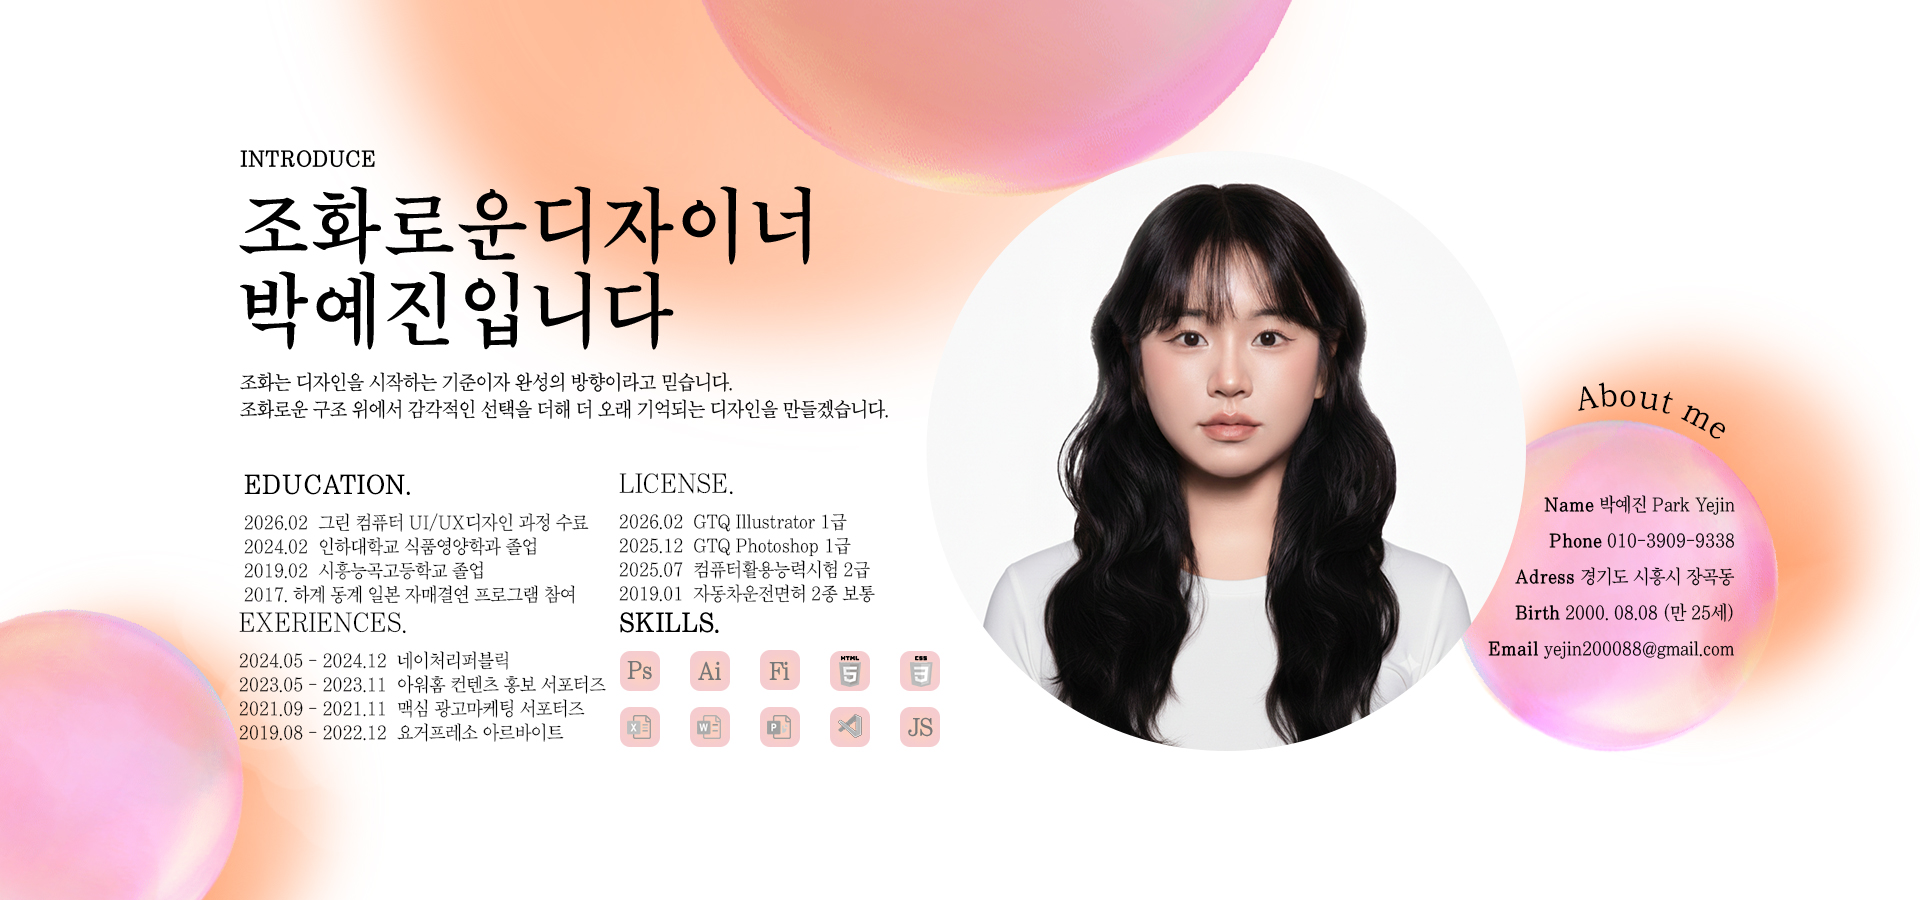
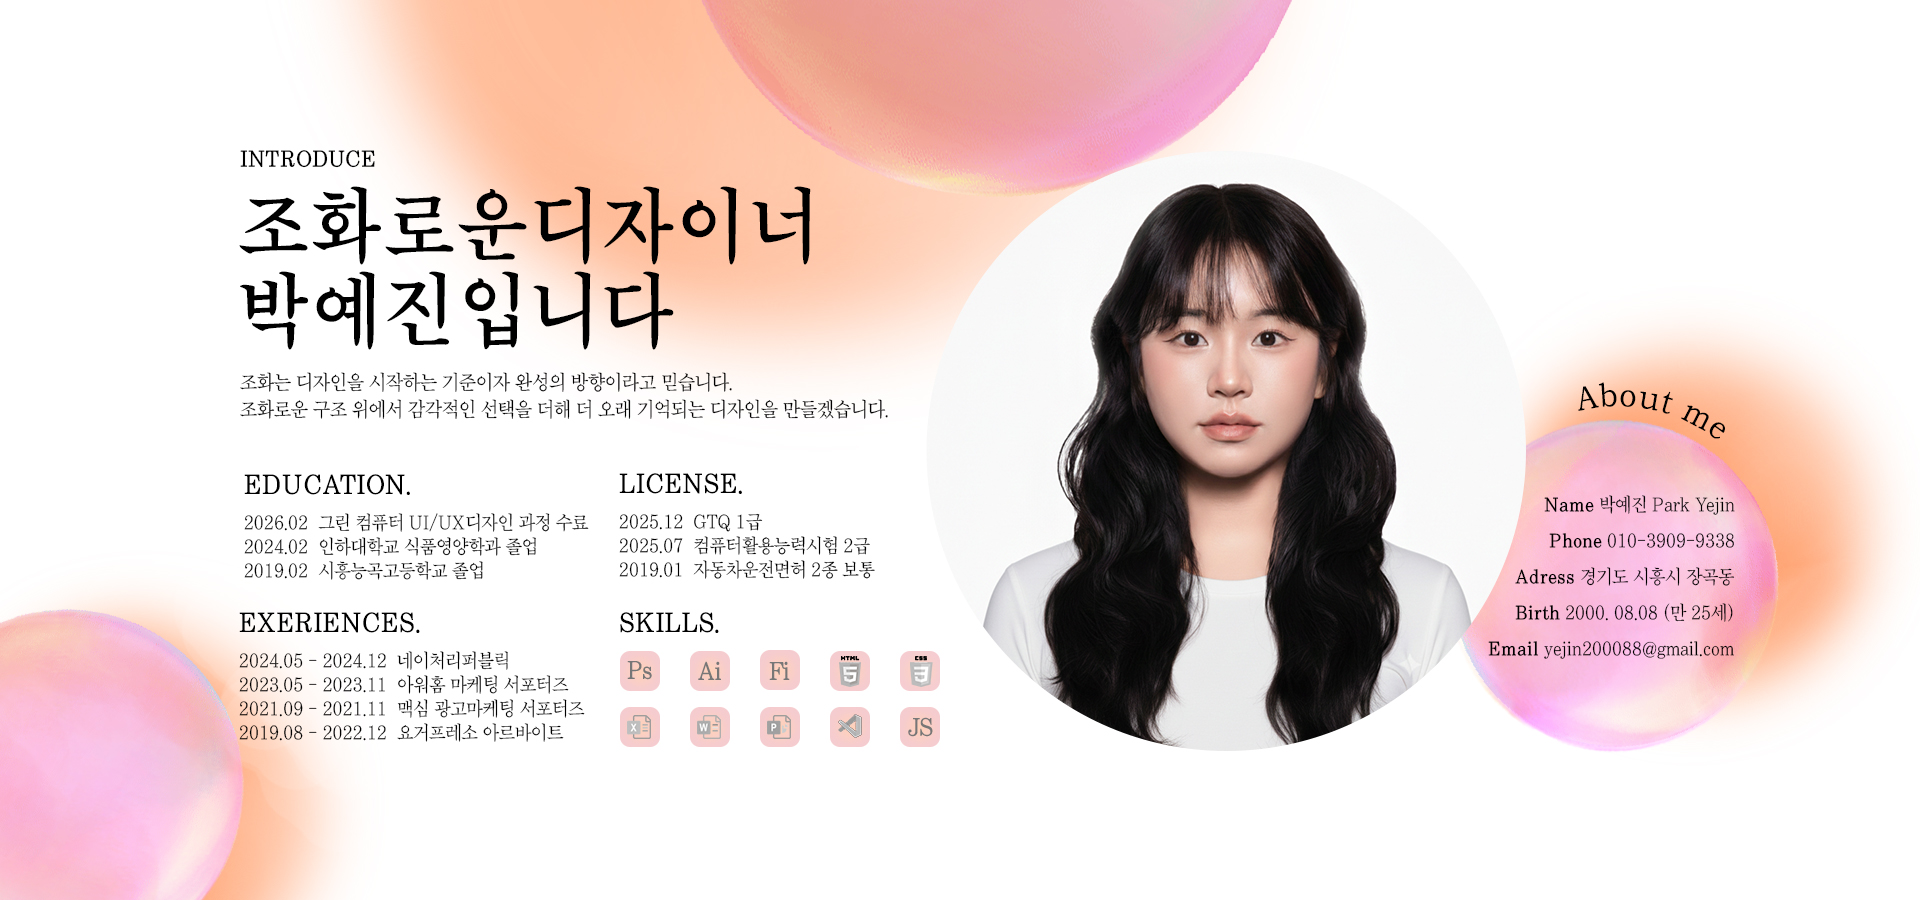
Add files via upload

diff --git a/index.html b/index.html
@@ -47,7 +47,7 @@
 </li>
         
         <li class="carousel__slide" style="background-image: url('image/portfolio2.jpg');">
-            <a href="javascript:void(0)" class="detail-button" data-popup="image/landing2.png">
+            <a href="javascript:void(0)" class="detail-button" data-popup="image/landing2.jpg">
                 <img src="image/button.png">
             </a>
 
@@ -66,7 +66,7 @@
         </li>
 
         <li class="carousel__slide" style="background-image: url('image/portfolio5.jpg');">
-            <a href="javascript:void(0)" class="detail-button" data-popup="image/landing5.jpg">
+            <a href="javascript:void(0)" class="detail-button" data-popup="image/landing5.png">
                 <img src="image/button.png">
                             <a href="https://www.figma.com/proto/VRbC4LwdC9dDfCZBqJNJDn/Untitled?page-id=0%3A1&node-id=178-826&viewport=-2040%2C1160%2C0.46&t=MXsaWoIRVkxsm6Y3-1&scaling=scale-down&content-scaling=fixed&starting-point-node-id=178%3A826&show-proto-sidebar=1" 
                class="custom-area-link-2" target="_blank"></a>

diff --git a/style.css b/style.css
@@ -183,7 +183,7 @@ nav ul a {
 
 /* 버튼 2번 위치 조정 */
 .detail-button-2 {
-    left: calc(740px - 150px); /* 버튼1 기준 오른쪽 30px */
+    left: calc(740px - 400px); /* 버튼1 기준 오른쪽 30px */
 }
 
 .detail-button img { 
